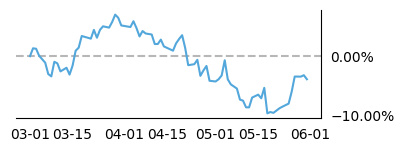
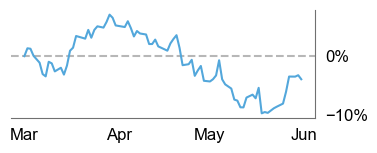
adjust percent, spine color

Changed region(s): [[0.0292, 0.0789, 0.992, 0.8158], [0.2626, 0.8421, 0.8462, 0.9474], [0.0292, 0.8158, 0.2334, 0.9211]]

diff --git a/zc_matplotlib.py b/zc_matplotlib.py
@@ -4,6 +4,7 @@ import numpy as np
 import matplotlib.pyplot as plt
 import matplotlib.dates as mdates
 from matplotlib.dates import DateFormatter
+from matplotlib.dates import MonthLocator
 import matplotlib.ticker as mtick
 
 
@@ -26,6 +27,11 @@ def create_plot(df, FNAME):
     # create fig, ax
     # by default set in inches...
     # but fpdf is in mm
+
+    # set font
+    plt.rcParams['font.family'] = 'Arial'
+    plt.rcParams.update({'font.size': 12})
+
     fig, ax = plt.subplots(figsize=(3.93701, 1.1811*1.2))
 
     # plot data
@@ -35,17 +41,23 @@ def create_plot(df, FNAME):
     # -- STYLE --
     # remove right and top spines
     ax.spines[['left', 'top']].set_visible(False)
+    ax.spines[['right', 'bottom']].set_edgecolor('#707070')
 
     # set ticks right side
     ax.yaxis.tick_right()
+    # hide x and y axis tick marks
     ax.yaxis.set_ticks_position('none') 
     ax.xaxis.set_ticks_position('none') 
+    
     # format as percent
-    ax.yaxis.set_major_formatter(mtick.PercentFormatter(decimals=2))
+    ax.yaxis.set_major_formatter(mtick.PercentFormatter(decimals=0))
 
     # format x axis dates
-    date_form = DateFormatter("%m-%d")
+    date_form = DateFormatter("%b")
     ax.xaxis.set_major_formatter(date_form)
+    ax.xaxis.set_major_locator(MonthLocator())
+
+
 
     plt.savefig(FNAME, bbox_inches='tight', transparent=True)
     # plt.show()
